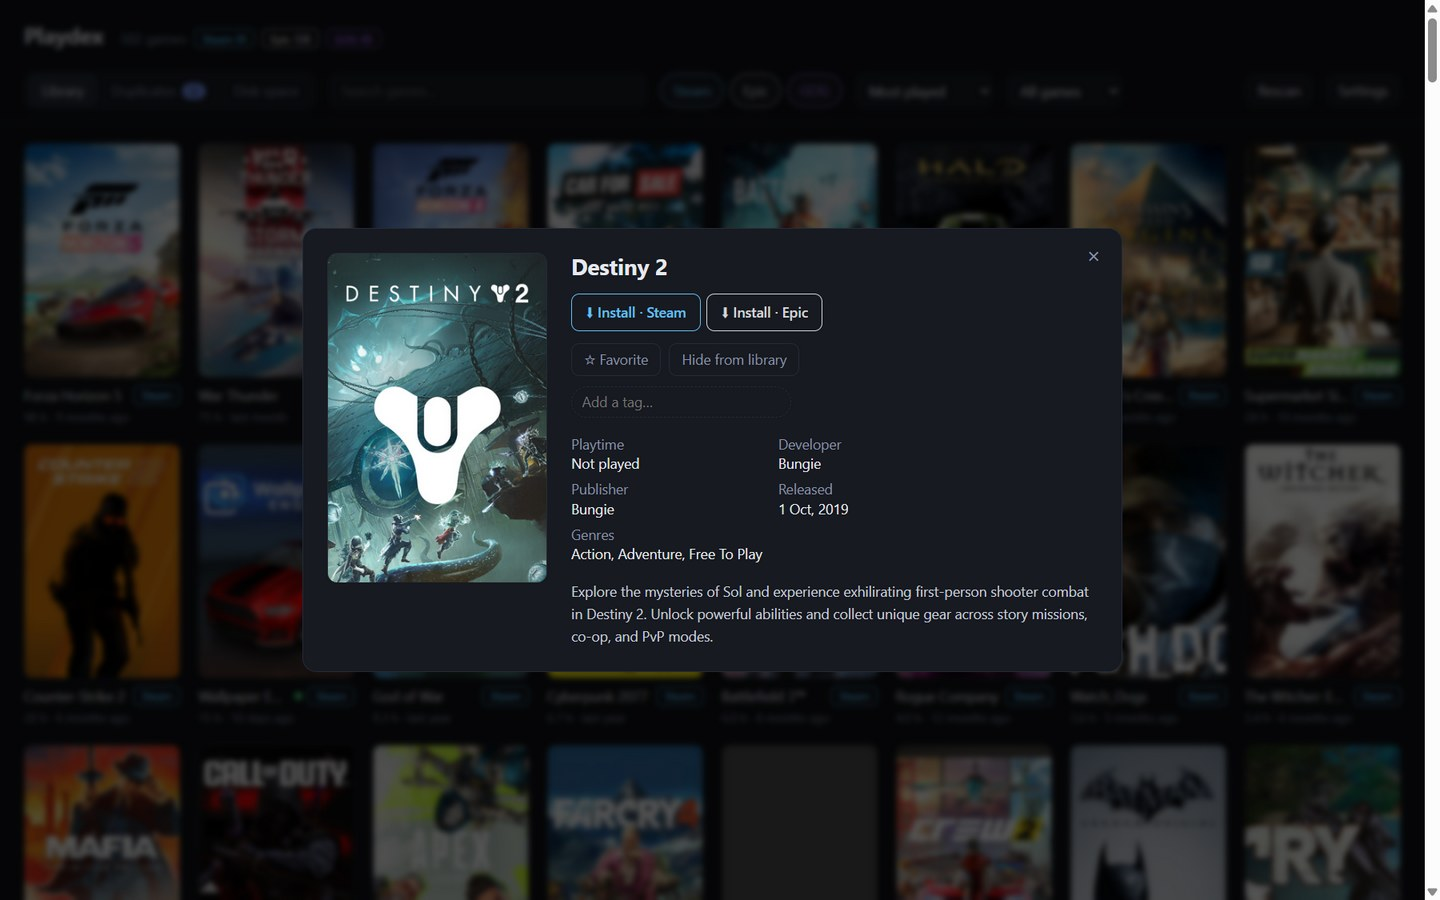
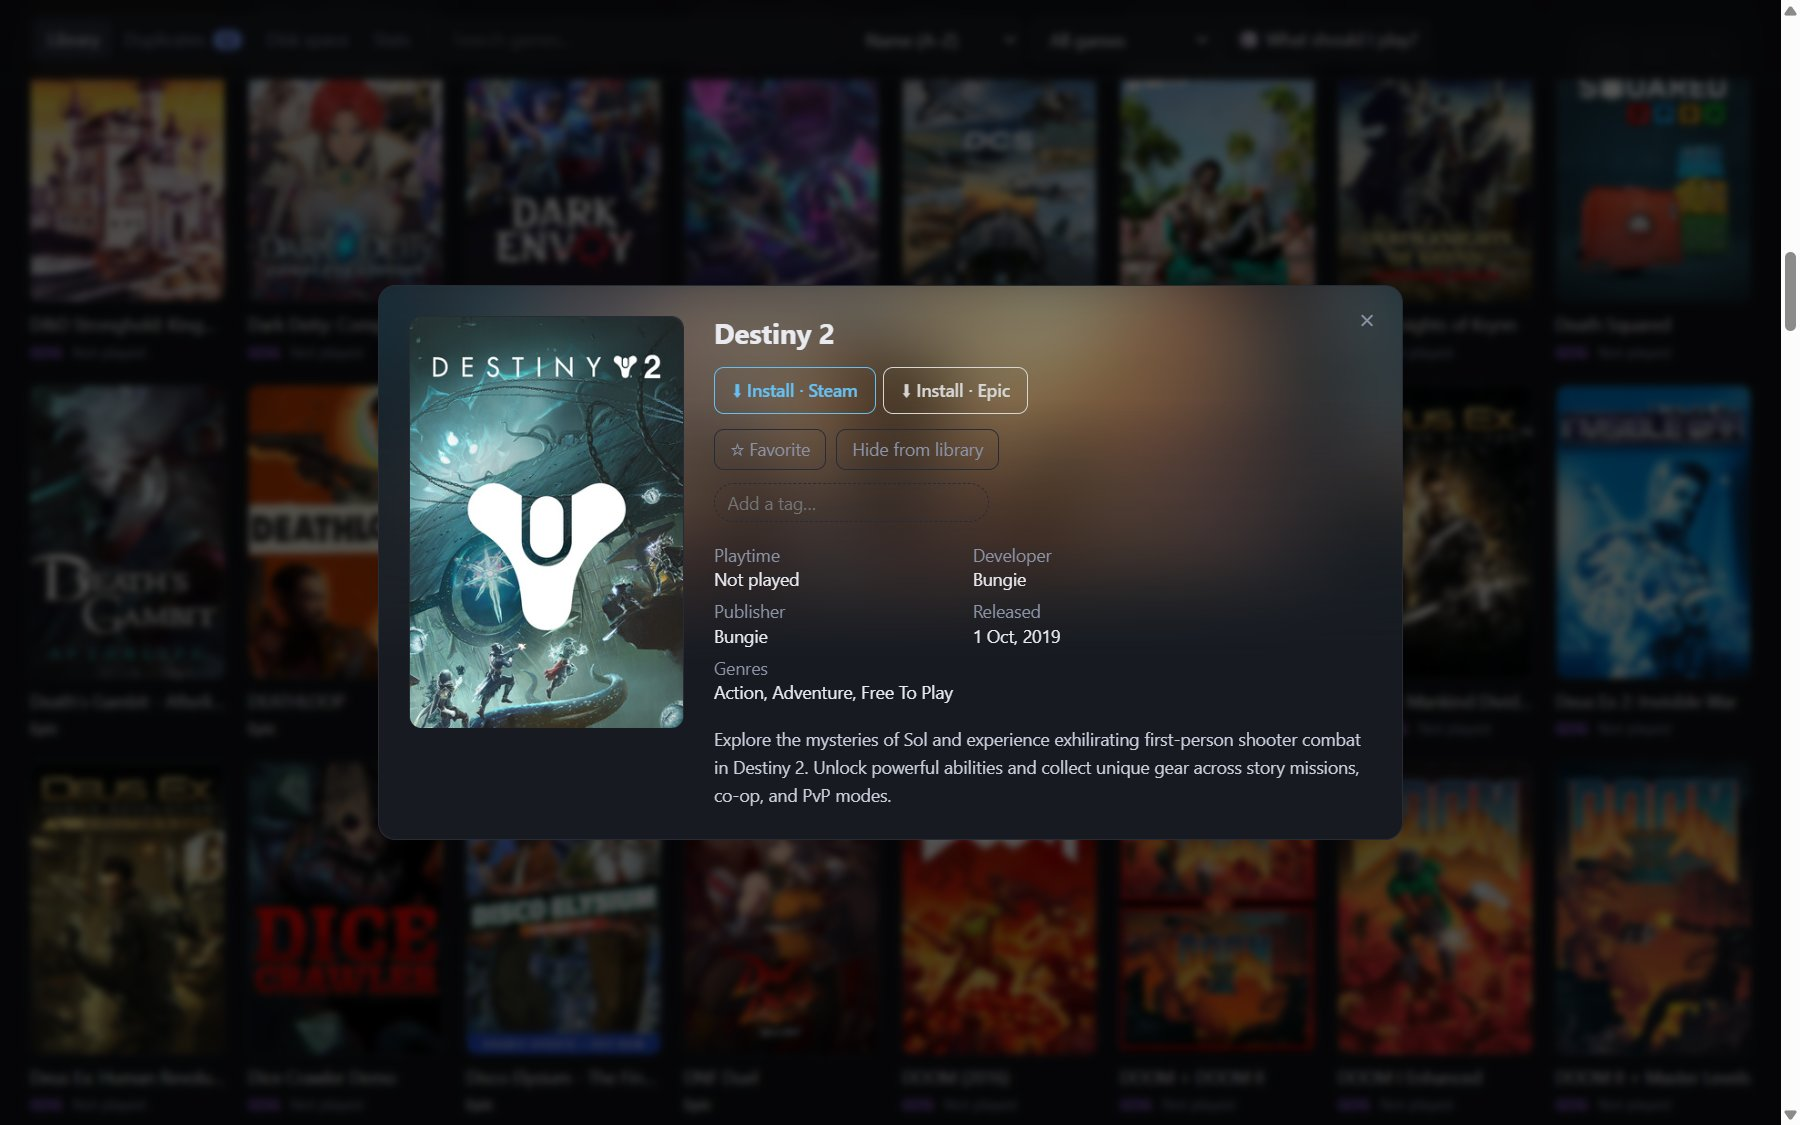
Retake the README screenshots for the new UI

diff --git a/README.md b/README.md
@@ -49,13 +49,13 @@ and on PCs with **Smart App Control** turned on Windows blocks it entirely. Use 
 
 ## Screenshots
 
-![Playdex library: every Steam, Epic and GOG game in one cover grid, with store badges, playtime and per-store counts](docs/screenshot-library.jpg)
+![Playdex library: Recently played on top, then every Steam, Epic and GOG game in one cover grid, one card per game with its stores and playtime](docs/screenshot-library.jpg)
 
 ![Duplicates tab: the 12 games owned on more than one store, each with a button per store](docs/screenshot-duplicates.jpg)
 
-![Stats tab: 302 games, hours played, share played, disk use, and the most played games](docs/screenshot-stats.jpg)
+![Stats tab: 312 games, hours played, share played, disk use, totals per store, and the most played games](docs/screenshot-stats.jpg)
 
-![Game details: description, developer, release date and genres, with an Install button for each store that owns the game](docs/screenshot-details.jpg)
+![Game details: the game's art blurred behind it, description, developer, release date and genres, with a button for each store that owns the game](docs/screenshot-details.jpg)
 
 ## Design decisions
 
